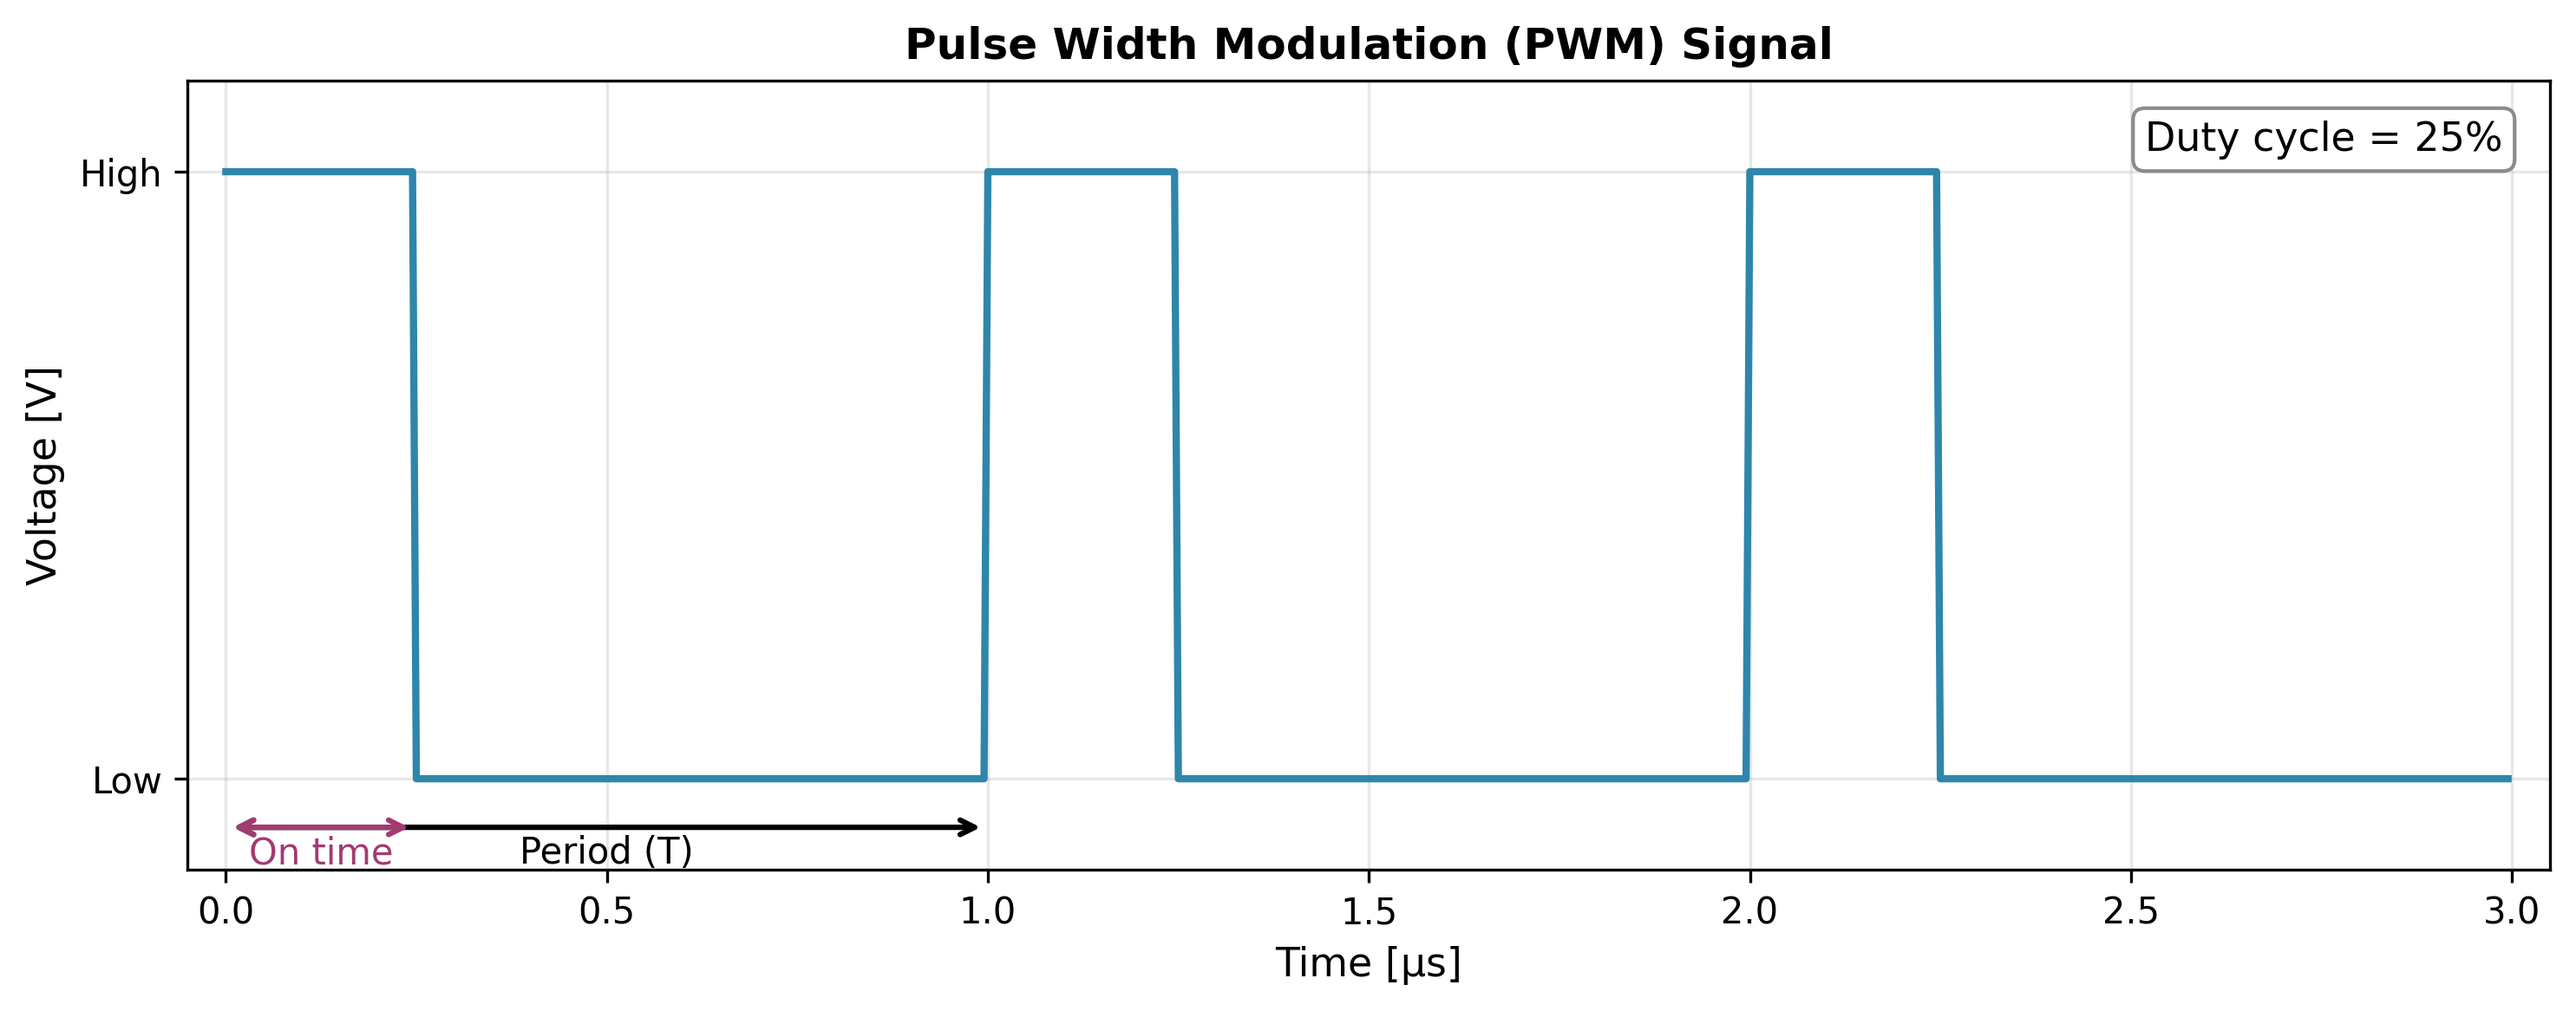
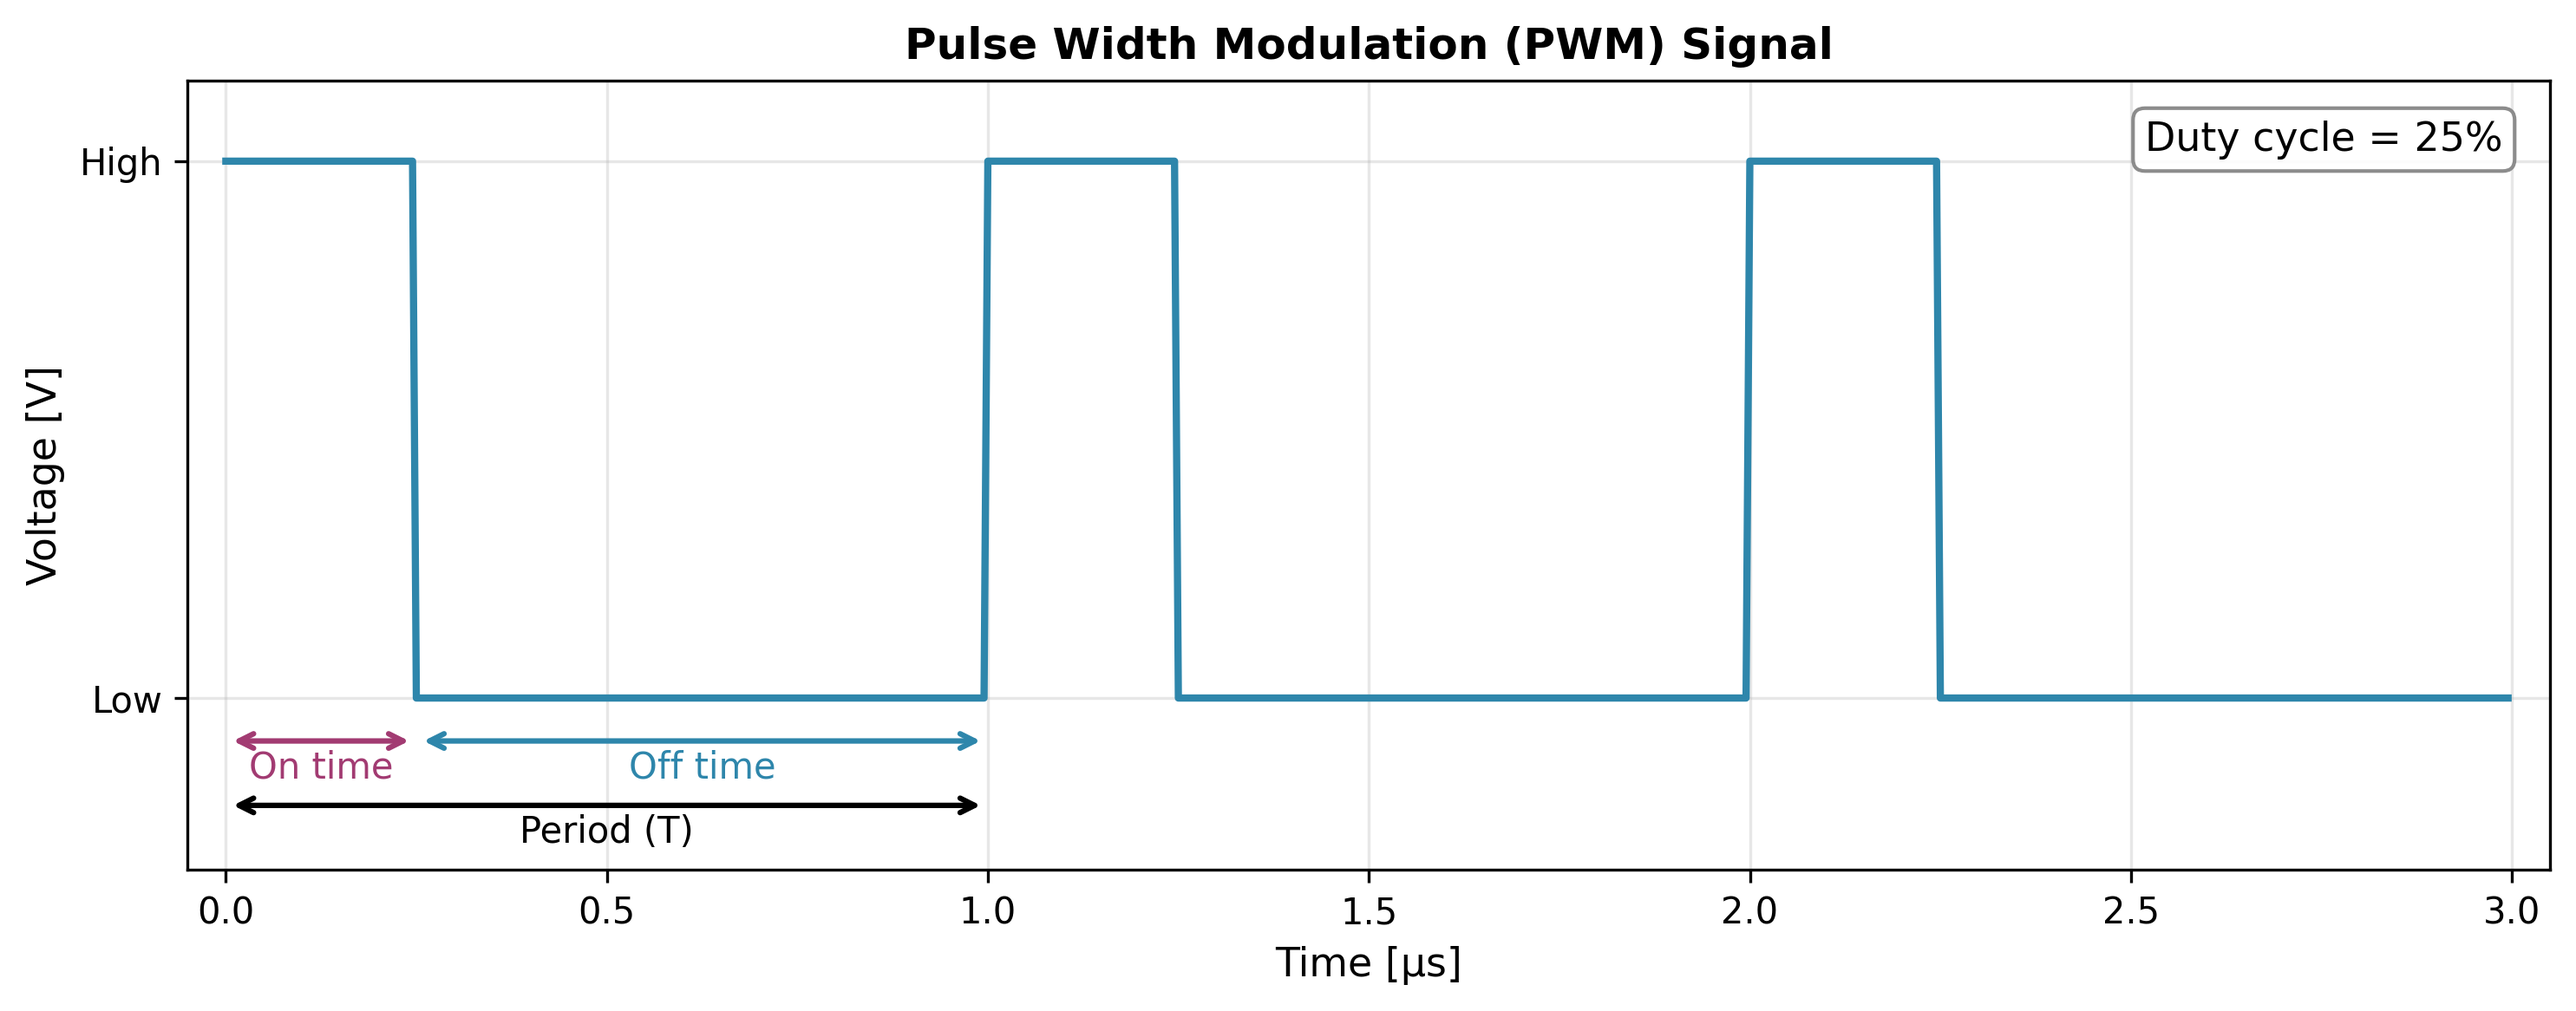
Improve PWM diagram.

diff --git a/src/content/pages/electronics/circuit-design/pulse-width-modulation-pwm/_assets/main.py b/src/content/pages/electronics/circuit-design/pulse-width-modulation-pwm/_assets/main.py
@@ -163,7 +163,7 @@ def plot_pwm_basic_diagram() -> None:
 
     fig, ax = plt.subplots(figsize=(10, 4))
     ax.plot(t_full, signal, color='#2E86AB', linewidth=2)
-    ax.set_ylim(v_low - 0.15, v_high + 0.15)
+    ax.set_ylim(v_low - 0.32, v_high + 0.15)
     ax.set_xlim(-0.05, num_periods + 0.05)
     ax.set_xlabel('Time [µs]', fontsize=11)
     ax.set_ylabel('Voltage [V]', fontsize=11)
@@ -177,17 +177,23 @@ def plot_pwm_basic_diagram() -> None:
             fontsize=11, ha='right', va='top',
             bbox=dict(boxstyle='round', facecolor='white', edgecolor='gray', alpha=0.9))
 
-    # Annotate period and on-time for the first period
-    ax.annotate(
-        '', xy=(1, -0.08), xytext=(0, -0.08),
-        arrowprops=dict(arrowstyle='<->', color='black', lw=1.5)
-    )
-    ax.text(0.5, -0.14, 'Period (T)', ha='center', fontsize=10)
+    # Annotate on-time, off-time and period for the first period (on/off time above, period below)
+    # Arrows and labels are spaced so text sits clearly below each arrow
     ax.annotate(
         '', xy=(duty_cycle, -0.08), xytext=(0, -0.08),
         arrowprops=dict(arrowstyle='<->', color='#A23B72', lw=1.5)
     )
-    ax.text(duty_cycle / 2, -0.14, 'On time', ha='center', fontsize=10, color='#A23B72')
+    ax.text(duty_cycle / 2, -0.15, 'On time', ha='center', fontsize=10, color='#A23B72')
+    ax.annotate(
+        '', xy=(1, -0.08), xytext=(duty_cycle, -0.08),
+        arrowprops=dict(arrowstyle='<->', color='#2E86AB', lw=1.5)
+    )
+    ax.text((duty_cycle + 1) / 2, -0.15, 'Off time', ha='center', fontsize=10, color='#2E86AB')
+    ax.annotate(
+        '', xy=(1, -0.20), xytext=(0, -0.20),
+        arrowprops=dict(arrowstyle='<->', color='black', lw=1.5)
+    )
+    ax.text(0.5, -0.27, 'Period (T)', ha='center', fontsize=10)
 
     plt.tight_layout()
     output_path = Path(__file__).parent / 'pwm-basic-diagram.png'
